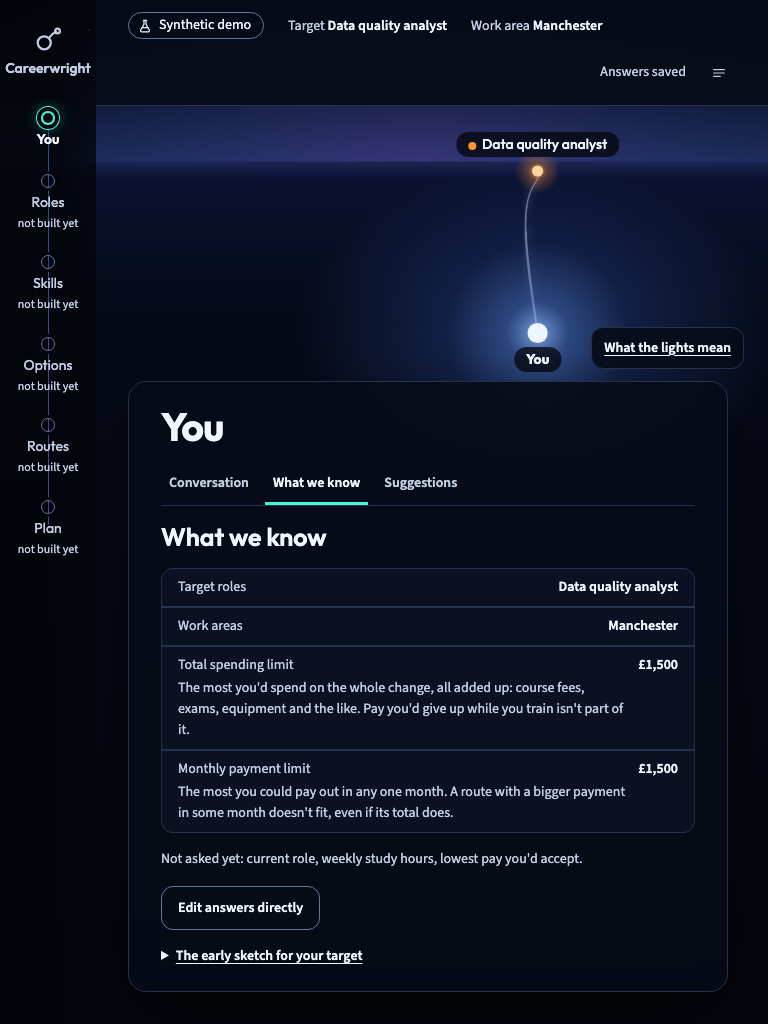
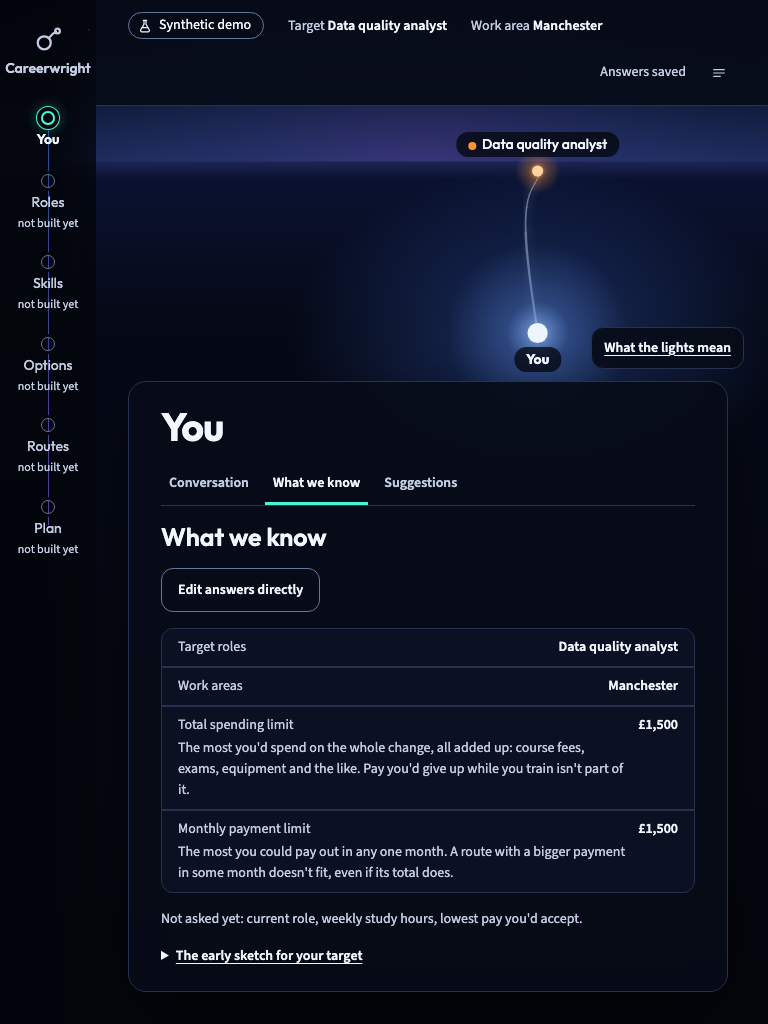
Fix round 1, design references: What we know's action under its heading (Task W2E)

Changed region(s): [[0.1875, 0.5625, 0.9062, 0.9062]]

diff --git a/docs/design/compositions/world.js b/docs/design/compositions/world.js
@@ -653,8 +653,11 @@
           ${field(true)}`);
       }
       if (state === "known") {
+        // The view's action first, under its heading, so a phone shows it in the first screen
+        // however many answers there are (Task W2E fix round 1); the answers follow.
         return atConsole(`
           <h2 class="sentence">What we know</h2>
+          <div class="row"><button type="button" class="btn btn-secondary">Edit answers directly</button></div>
           <dl class="known-facts">
             <div><dt>Target roles</dt><dd>${esc(F.p01.targetTitles.join(", "))}</dd></div>
             <div><dt>Work areas</dt><dd>${esc(F.p01.cities.join(", "))}</dd></div>
@@ -662,7 +665,6 @@
             <div><dt>Monthly payment limit<span class="explained">${MONTHLY}</span></dt><dd class="tnum">${money(F.p01.monthlyPaymentCapMinor)}</dd></div>
           </dl>
           <p class="small muted">Not asked yet: current role, weekly study hours, lowest pay you'd accept.</p>
-          <div class="row"><button type="button" class="btn btn-secondary">Edit answers directly</button></div>
           <details class="more"><summary>The early sketch for your target</summary><p class="small muted">Early sketch, not a checked route: what data quality analyst work usually asks for, from ESCO, and every step not resolved yet.</p></details>`);
       }
       if (state === "suggestions") {
